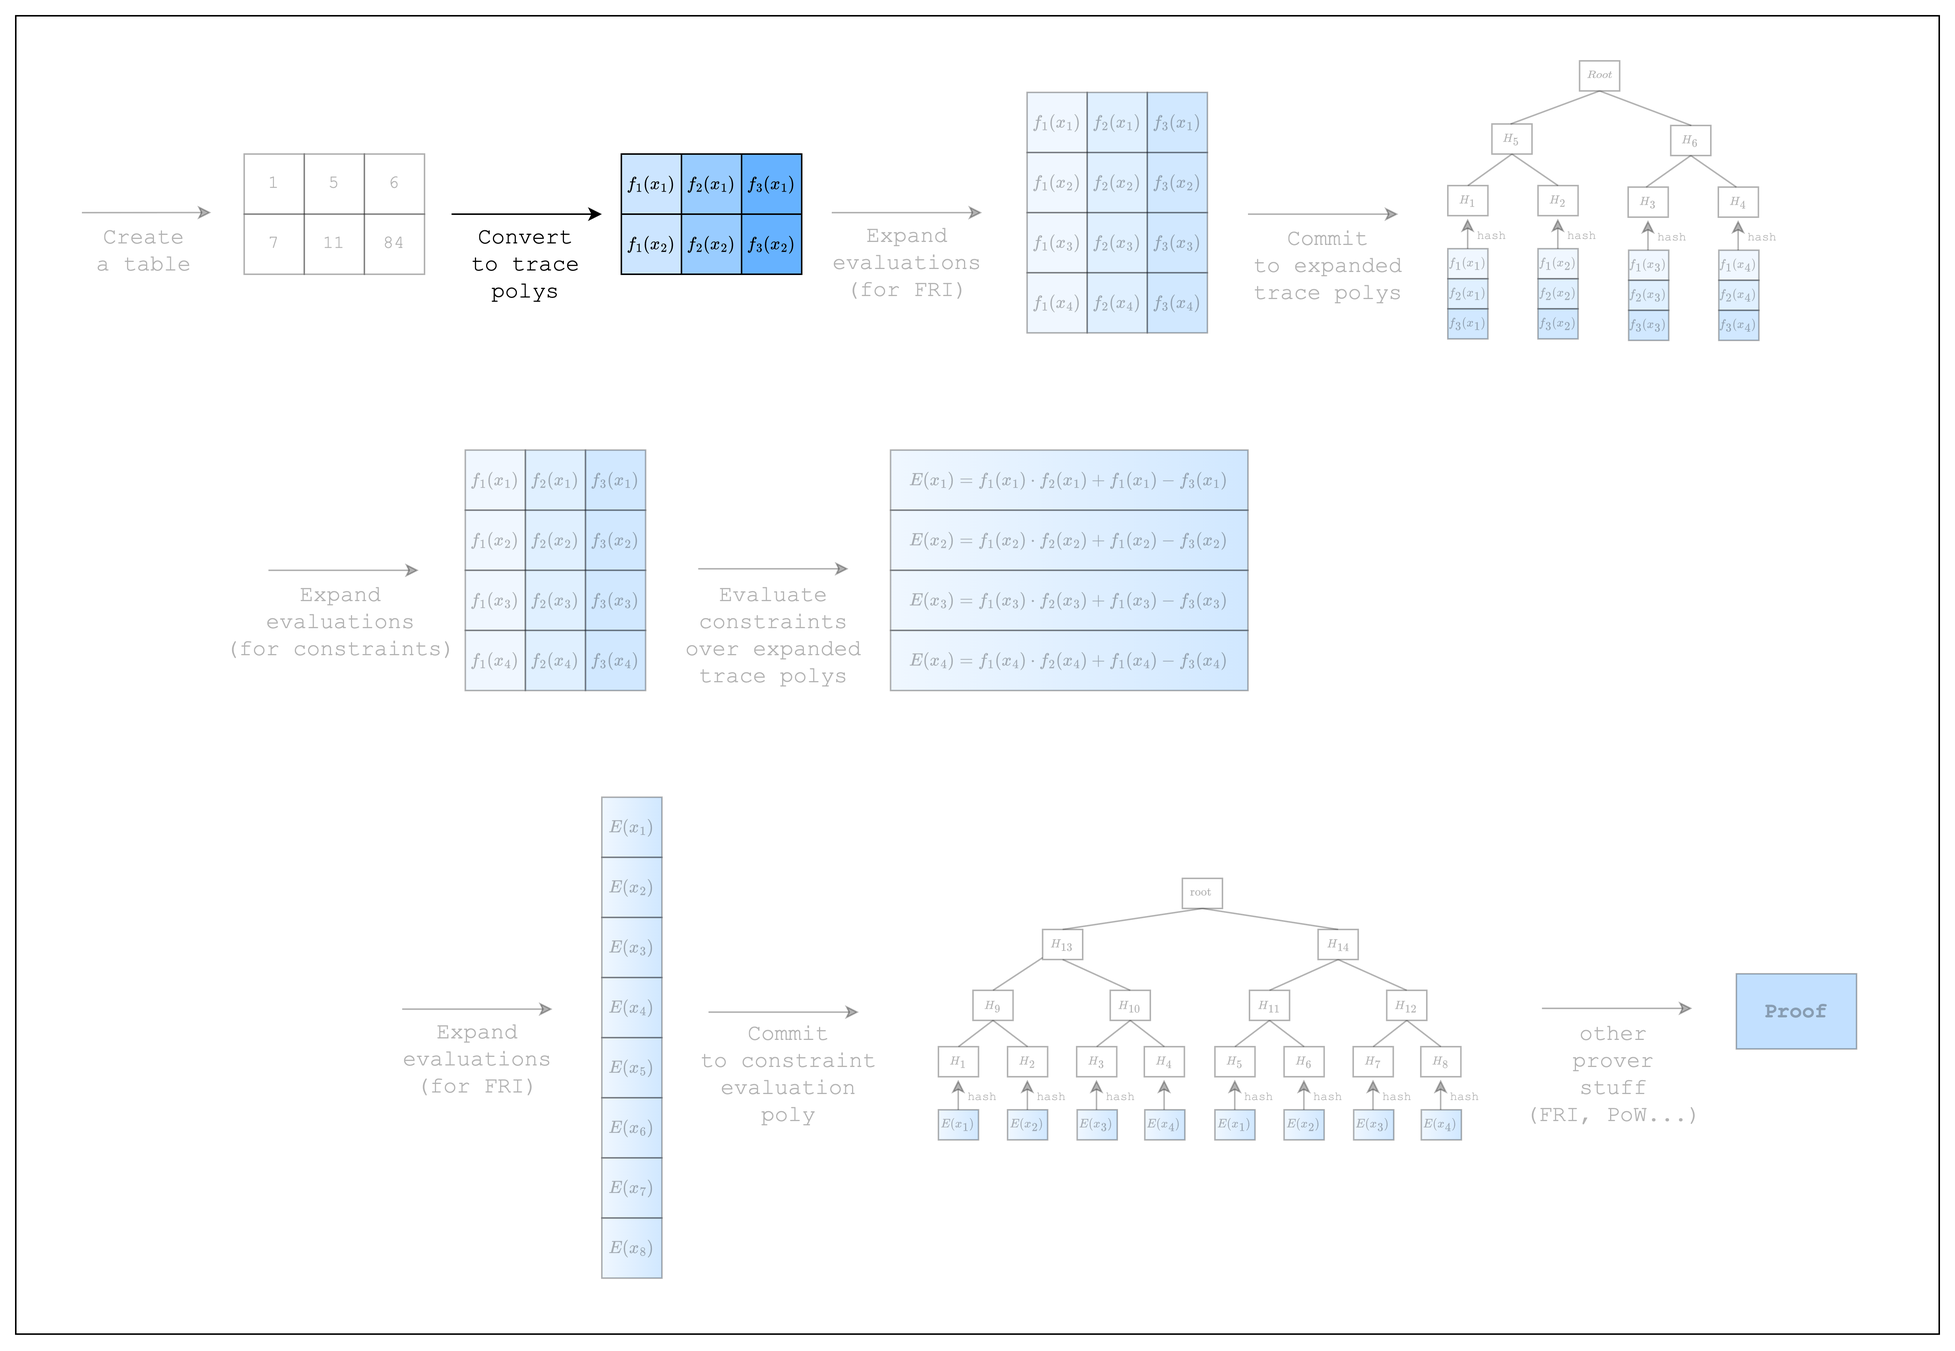
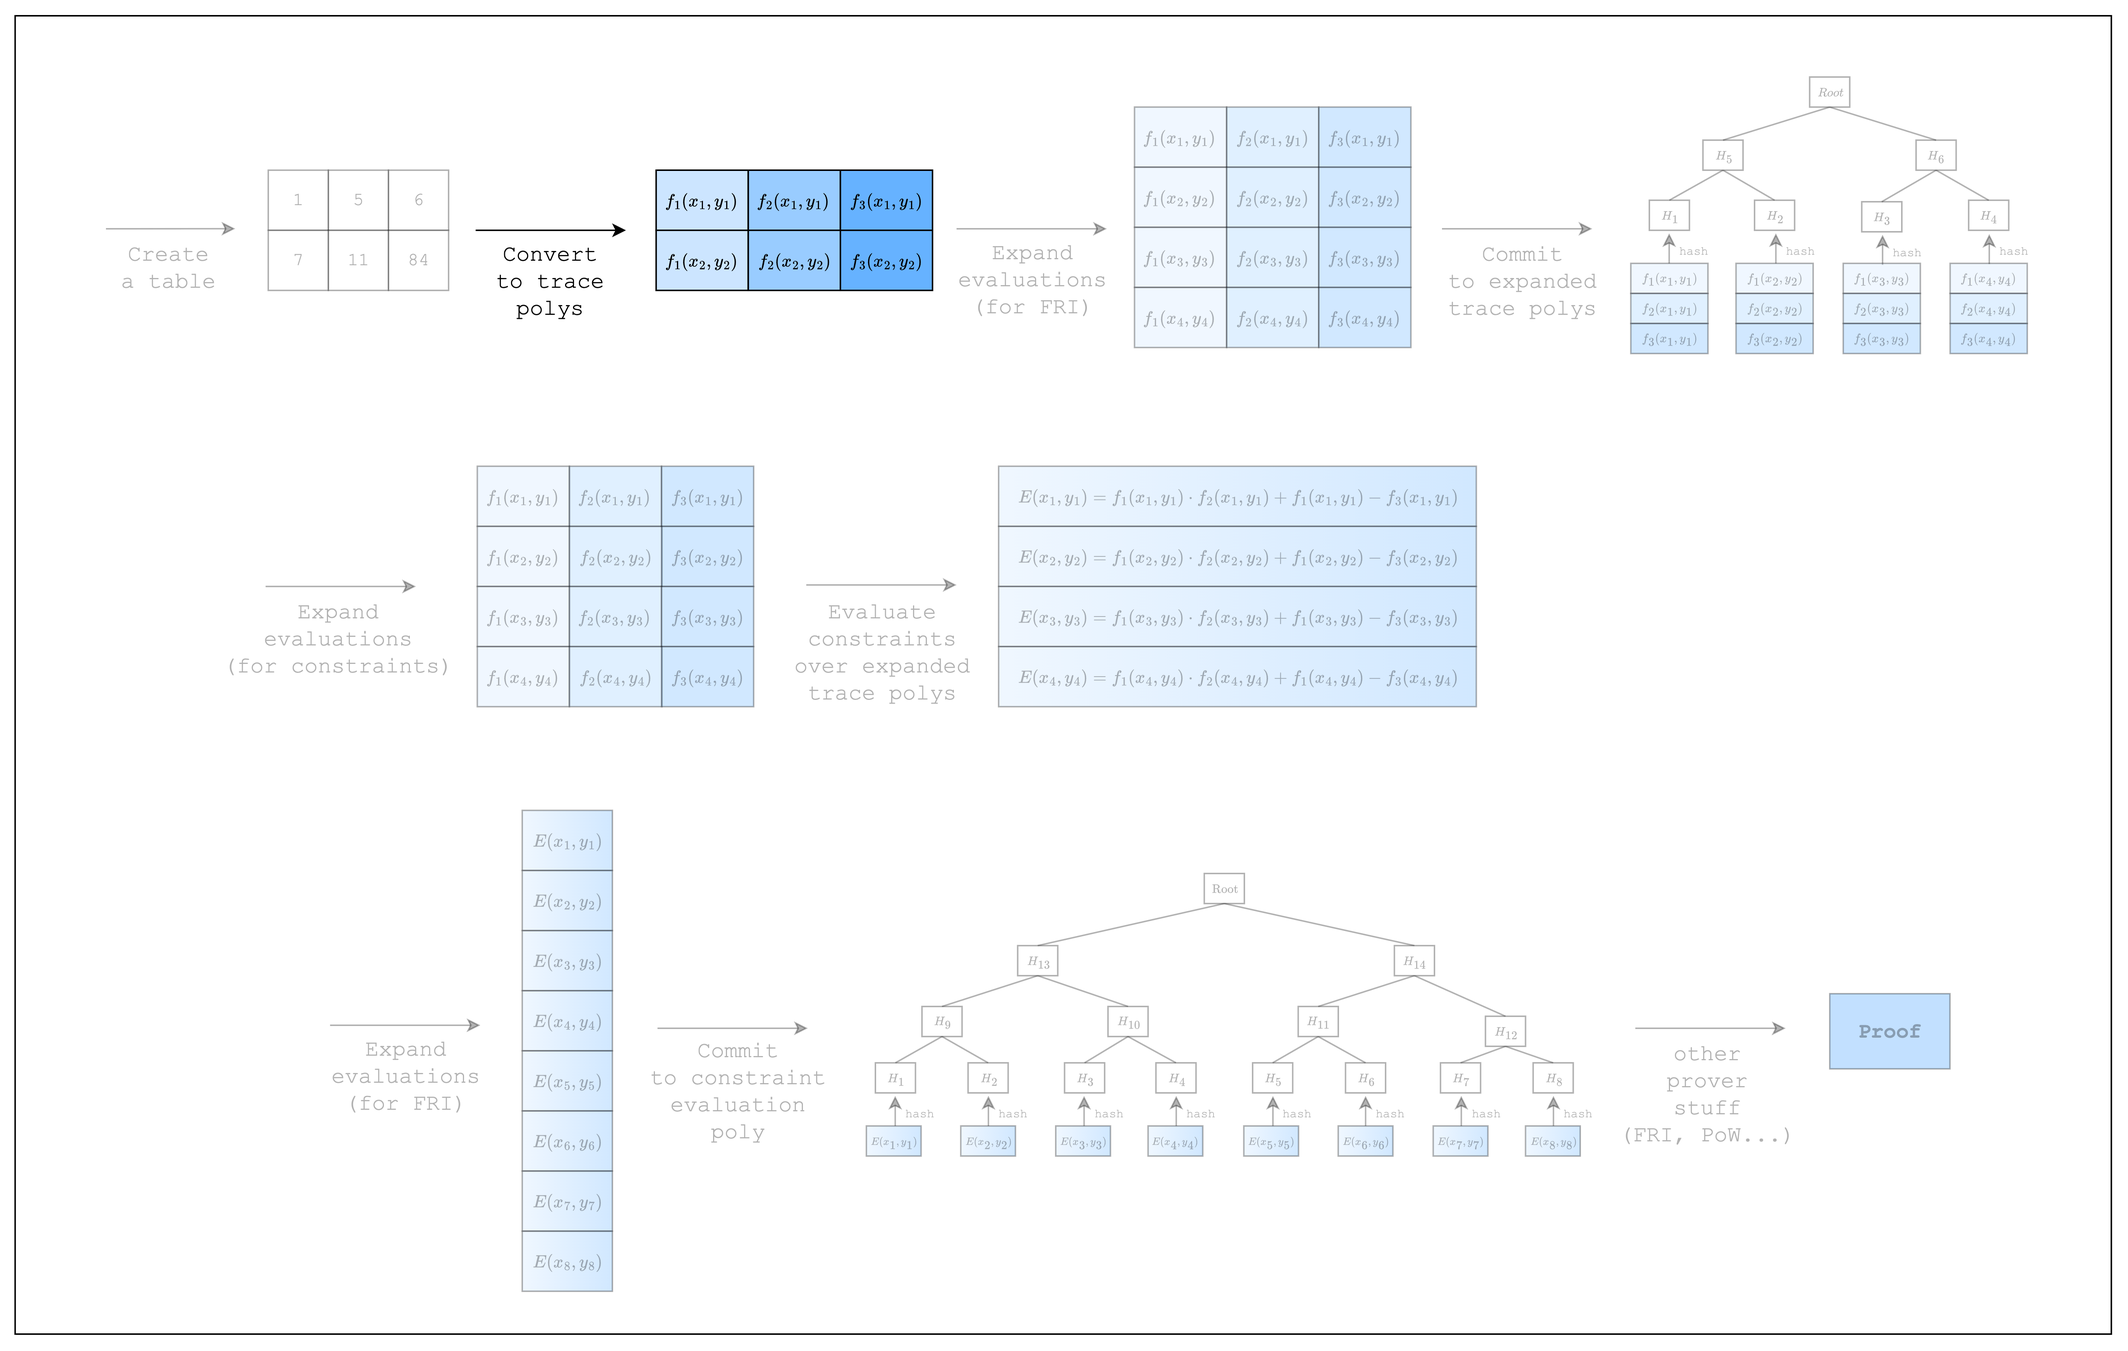
fix: reflect reviews

diff --git a/src/air-development/writing-a-simple-air/committing-to-the-trace-polynomials.md b/src/air-development/writing-a-simple-air/committing-to-the-trace-polynomials.md
@@ -7,11 +7,7 @@
 
 Now that we have created the trace polynomials, we need to commit to them.
 
-As we can see in [Figure 1](#fig-committing-to-the-trace-polynomials-1), Stwo commits to the trace polynomials by first expanding the trace polynomials (i.e. adding more evaluations) and then committing to the expanded evaluations using a merkle tree.
-
-The rate of expansion (commonly referred to as the _blowup factor_) is a parameter of FRI and readers who are interested in learning more about how to set this parameter can refer to the [Circle-STARKs paper](https://eprint.iacr.org/2024/278) (We are also working on adding an explanation in the book).
-
-For the puposes of this tutorial, we will use the default values for the blowup factor.
+As we can see in [Figure 1](#fig-committing-to-the-trace-polynomials-1), Stwo commits to the trace polynomials by first expanding the trace polynomials (i.e. adding more evaluations) and then committing to the expanded evaluations using a Merkle tree. The rate of expansion (commonly referred to as the _blowup factor_) is a parameter of the FRI protocol and for the purposes of this tutorial, we will use the default value.
 
 ```rust,ignore
 {{#include ../../../stwo-examples/examples/committing_to_the_trace_polynomials.rs:here_1}}
@@ -20,9 +16,9 @@ For the puposes of this tutorial, we will use the default values for the blowup 
 
 We begin with some setup. First, we create a default `PcsConfig` instance, which sets the values for the FRI and PoW operations. Setting non-default values is related to the security of the proof, which is out of the scope for this tutorial.
 
-Next, we precompute twiddles, also known as the _domain_ over which the rows in the table are evaluated on. The log size of this domain is set to `log_num_rows + CONSTRAINT_EVAL_BLOWUP_FACTOR + config.fri_config.log_blowup_factor`, which is the max log size of the domain that is needed throughout the proving process. Why we need to add `CONSTRAINT_EVAL_BLOWUP_FACTOR` will be explained in the next section.
+Next, we precompute twiddles, which are factors multiplied during FFT for a particular domain. Notice that the log size of the domain is set to `log_num_rows + CONSTRAINT_EVAL_BLOWUP_FACTOR + config.fri_config.log_blowup_factor`, which is the max log size of the domain that is needed throughout the proving process. For committing to the trace polynomial, we only need to add `config.fri_config.log_blowup_factor` but as we will see in the next section, we also need to commit to a polynomial of a higher degree, which is the reason we also add `CONSTRAINT_EVAL_BLOWUP_FACTOR`.
 
-The final setup is creating a commitment scheme and a channel. The commitment scheme will be used to commit to the trace polynomials as merkle trees, while the channel will be used to keep a running hash of all data in the proving process (i.e. transcript of the proof). This is part of the Fiat-Shamir transformation where randomness can be generated safely even in a non-interactive setting. Here, we use the `Blake2sChannel` and `Blake2sMerkleChannel` for the channel and commitment scheme, respectively, but we can also use the `Poseidon252Channel` and `Poseidon252MerkleChannel` pair.
+The final setup is creating a commitment scheme and a channel. The commitment scheme will be used to commit to the trace polynomials as Merkle trees, while the channel will be used to keep a running hash of all data in the proving process (i.e. transcript of the proof). This is part of the Fiat-Shamir transformation where randomness can be generated safely even in a non-interactive setting. Here, we use the `Blake2sChannel` and `Blake2sMerkleChannel` for the channel and commitment scheme, respectively, but we can also use the `Poseidon252Channel` and `Poseidon252MerkleChannel` pair.
 
 Now that we have our setup, we can commit to the trace polynomials. But before we do so, we need to first commit to an empty vector called a _preprocessed trace_, which doesn't do anything but is required by Stwo. Then, we need to commit to the size of the trace, which is a vital part of the proof system that the prover should not be able to cheat on. Once we have done these, we can finally commit to the original trace polynomials.
 

diff --git a/src/air-development/writing-a-simple-air/from-spreadsheet-to-trace-polynomials.md b/src/air-development/writing-a-simple-air/from-spreadsheet-to-trace-polynomials.md
@@ -12,7 +12,7 @@ In the previous section, we created a table (aka spreadsheet). In this section, 
     <figcaption><center><span style="font-size: 0.9em">Figure 2: From spreadsheet to trace polynomials</span></center></figcaption>
 </figure>
 
-As we can see in [Figure 2](#fig-from-spreadsheet-to-trace-polynomials-2), the cells in each column of the table can be seen as evaluations of a [Lagrange polynomial](https://en.wikipedia.org/wiki/Lagrange_polynomial). A characteristic of a Lagrange polynomial is that interpolating \\(n\\) distinct points will result in a unique polynomial of at most \\(n-1\\) degrees. So if we consider each row value \\(f(x_i)\\) as the evaluation of a distinct point \\(x_i\\), we can get a unique polynomial of degree \\(num\\\_rows-1\\) for each column, which is also known as a **trace polynomial**.
+In STARKs, the computation trace is represented as evaluations of a polynomial over some domain. Typically this domain is a coset of a multiplicative subgroup. But since the multiplicative subgroup of M31 is not smooth, Stwo works over the circle group which is the subgroup of degree-2 extension of M31 (as explained in the [Mersenne Primes](../../how-it-works/mersenne-prime.md) and [Circle Group](../../how-it-works/circle-group.md) sections). Thus the domain in Stwo is formed of points \\((x_i, y_i)\\) on the circle curve. When interpolating a polynomial over the computation trace using the points on the circle curve as domain gives a bivariate trace polynomial \\(f_j(x, y)\\).
 
 We will explain why using a polynomial representation is useful in the next section, but for now, let's see how we can create trace polynomials for our code. Note that we are building upon the code from the previous section, so there's not much new code here.
 
@@ -21,6 +21,6 @@ We will explain why using a polynomial representation is useful in the next sect
 {{#include ../../../stwo-examples/examples/from_spreadsheet_to_trace_polynomials.rs:main_end}}
 ```
 
-Here, `domain` refers to the \\(x_i\\) values used to interpolate the trace polynomials. For example, \\(x_1, x_2\\) values in [Figure 2](#fig-from-spreadsheet-to-trace-polynomials-2) are the domain values for our example (in reality, we need the size of the domain needs to be 16 as we have 16 rows). We can ignore terms like `CanonicCoset` and `.circle_domain()` for now, but should note that the `log_num_rows` in `CanonicCoset::new(log_num_rows).circle_domain()` needs to be equal to the log of the actual number of rows that are used in the table.
+Here, `domain` refers to the \\((x_i, y_i)\\) values used to interpolate the trace polynomials. For example, \\((x_1, y_1), (x_2, y_2)\\) in [Figure 2](#fig-from-spreadsheet-to-trace-polynomials-2) are the domain values for our example. Note that when creating the domain, we set the `log_num_rows` to the log of the actual number of rows that are used in the table. In our example, we set it to 4 since Stwo requires that we use at least 16 rows. For a background on what `CanonicCoset` and `.circle_domain()` mean, you can refer to the [Circle Group](../../how-it-works/circle-group.md) section.
 
 Now that we have created 2 trace polynomials for our 2 columns, let's move on to the next section where we commit to those polynomials!

diff --git a/src/air-development/writing-a-simple-air/constraints-over-trace-polynomials.md b/src/air-development/writing-a-simple-air/constraints-over-trace-polynomials.md
@@ -11,9 +11,7 @@ When we want to perform computations over the cells in a spreadsheet, we don't w
 
 We can do the same thing with our table, except in addition to autofilling cells, we can also create a constraint that the result was computed correctly. Remember that the purpose of using a proof system is that the verifier can verify a computation was executed correctly without having to execute it themselves? Well, that's exactly why we need to create a constraint.
 
-Now let's say we want to add a new column `C` to our spreadsheet that computes the product of the previous columns plus the first column. We can set `C1` as `A1 * B1 + A1` as in [Figure 2](#fig-constraints-over-trace-polynomials-2).
-
-In the same vein, we can create a new column in our table that computes the sum of the two previous columns. And we can constrain the value of the third column by creating an equation that must equal 0: `col1_row1 * col2_row1 + col1_row1 - col3_row1 = 0`.
+Now let's say we want to add a new column `C` to our spreadsheet that computes the product of the previous columns plus the first column. We can set `C1` as `A1 * B1 + A1` as in [Figure 2](#fig-constraints-over-trace-polynomials-2). And then we can constrain the value of the third column by creating an equation that must equal 0: `col1_row1 * col2_row1 + col1_row1 - col3_row1 = 0`.
 
 <figure id="fig-constraints-over-trace-polynomials-2">
     <img src="./constraints-over-trace-polynomials-2.png" width="100%" />
@@ -40,7 +38,8 @@ We will now give a name to the polynomial that expresses the constraint: a **com
 
 Basically, in order to prove that the constraints are satisfied, we need to show that the composition polynomial evaluates to 0 over the original domain (i.e. the domain of size the number of rows in the table).
 
-But first, as can be seen in [Figure 1](#fig-constraints-over-trace-polynomials-1), we need to expand the evaluations of the trace polynomials by a factor of 2. This is because the composition polynomial has degree 2, while the trace polynomials have degree 1, and thus we need more evaluations to uniquely determine the Lagrange polynomial.
+But first, as can be seen in [Figure 1](#fig-constraints-over-trace-polynomials-1), we need to expand the evaluations of the trace polynomials by a factor of 2. This is because the composition polynomial involves a multiplication of two trace polynomials, and thus the degree of the constraint is 2 in \\(x\\), and thus we need double the number of evaluations to uniquely determine the Lagrange polynomial for the composition polynomial.
+[TODO: check again if this makes sense]
 
 Once we have the expanded evaluations, we can evaluate the composition polynomial. Checking that the composition polynomial evaluates to 0 over the original domain is done in FRI, so once again we need to expand the composition polynomial evaluations by a factor of 2 and commit to them.
 

diff --git a/src/air-development/writing-a-simple-air/writing-a-spreadsheet.md b/src/air-development/writing-a-simple-air/writing-a-spreadsheet.md
@@ -5,7 +5,7 @@
     <figcaption><center><span style="font-size: 0.9em">Figure 1: Prover workflow: Create a table</span></center></figcaption>
 </figure>
 
-In order to write a proof, we first need to create a table of rows and columns. This is no different than writing integers to an Excel spreadsheet as we can see in [Figure 1](#fig-writing-a-spreadsheet-2).
+In order to write a proof, we first need to create a table of rows and columns. This is no different than writing integers to an Excel spreadsheet as we can see in [Figure 2](#fig-writing-a-spreadsheet-2).
 
 <figure id="fig-writing-a-spreadsheet-2">
     <img src="./writing-a-spreadsheet-2.png" width="100%" />
@@ -14,9 +14,9 @@ In order to write a proof, we first need to create a table of rows and columns. 
 
 But there is a slight caveat to consider when creating the table. Stwo implements [SIMD operations](https://en.wikipedia.org/wiki/Single_instruction,_multiple_data) to speed up the prover in the CPU, but this requires providing the table cells in chunks of 16 rows. Simply put, this is because Stwo supports 16 lanes of 32-bit integers, which means that the same instruction can be run simultaneously for 16 different data.
 
-Alas, for our table, we will need to create 14 dummy rows to make the total number of rows equal to 16, as shown in [Figure 3](#fig-writing-a-spreadsheet-3). For the sake of simplicity, however, we will omit the dummy rows in the diagrams of the following sections.
+Alas, for our table, we will need to create 14 dummy rows to make the total number of rows equal to 16, as shown in [Figure 2](#fig-writing-a-spreadsheet-3). For the sake of simplicity, however, we will omit the dummy rows in the diagrams of the following sections.
 
-<figure>
+<figure id="fig-writing-a-spreadsheet-3">
     <img src="./writing-a-spreadsheet-3.png" width="80%" style="display: block; margin: 0 auto;" />
     <figcaption><center><span style="font-size: 0.9em">Figure 3: Creating a table with 16 rows</span></center></figcaption>
 </figure>
@@ -29,6 +29,6 @@ Given all that, let's create this table using Stwo.
 
 As mentioned above, we instantiate the `num_rows` of our table as `N_LANES=16` to accommodate SIMD operations. Then we create a `BaseColumn` of `N_LANES=16` rows for each column and populate the first two rows with our values and the rest with dummy values.
 
-Note that the values in the `BaseColumn` need to be of type `M31`, which refers to the Mersenne-31 prime field that Stwo uses. This means that the integers in the table must be in the range \\([0, 2^{31}-1]\\).
+Note that the values in the `BaseColumn` need to be of type `M31`, which refers to the Mersenne-31 prime field that Stwo uses. This means that the integers in the table must be in the range \\([0, 2^{31}-1)\\).
 
 Now that we have our table, let's move on!

diff --git a/src/air-development/writing-a-simple-air/proving-an-air.md b/src/air-development/writing-a-simple-air/proving-an-air.md
@@ -20,7 +20,7 @@ As you can see, there is only a single line of code added to create the proof. T
 
 ## Verify
 
-In order to verify our proof, we need to check that the constraints are satisfied using the commitments from the proof. In order to do that, we need to set up a `Blake2sChannel` and `CommitmentSchemeVerifier<Blake2sMerkleChannel>`, along with the same `PcsConfig` that we used when creating the proof. Then, we need to recreate the running hash channel by passing the merkle tree commitments and the `log_num_rows` to the `CommitmentSchemeVerifier` instance by calling `commit` (remember, the order is important!). Then, we can verify the proof using the `verify` function.
+In order to verify our proof, we need to check that the constraints are satisfied using the commitments from the proof. In order to do that, we need to set up a `Blake2sChannel` and `CommitmentSchemeVerifier<Blake2sMerkleChannel>`, along with the same `PcsConfig` that we used when creating the proof. Then, we need to recreate the running hash channel by passing the Merkle tree commitments and the `log_num_rows` to the `CommitmentSchemeVerifier` instance by calling `commit` (remember, the order is important!). Then, we can verify the proof using the `verify` function.
 
 ```admonish exercise
 Try setting the dummy values in the table to 1 instead of 0. Does it fail? If so, can you see why?

diff --git a/src/introduction.md b/src/introduction.md
@@ -1,10 +1,9 @@
 # Introduction
 
-Stwo is a state-of-the-art framework for creating ZK proofs that boasts many compelling features to the ZK ecosystem, some of which include:
+Stwo is a state-of-the-art framework for creating STARK proofs that provides the following features:
 
-- Provides both the frontend and backend of creating ZK proofs
-- Frontend is designed to be flexible to allow you to express your own proof system
-- Backend leverages Circle STARKs over the Mersenne31 prime field for fast prover performance
+- A frontend designed to be flexible to allow you to express your own constraints
+- A backend that leverages Circle STARKs over the Mersenne31 prime field for fast prover performance
 - Seamlessly integrated with Cairo
 
-This book will guide you through why you should create a proof system using Stwo, guide you through the process of creating your own proof system, and also provide in-depth explanations of the inner workings of Stwo.
+This book will guide you through the process of creating your own constraints and then proving them using Stwo and also provide in-depth explanations of the inner workings of Stwo.

diff --git a/src/SUMMARY.md b/src/SUMMARY.md
@@ -8,12 +8,12 @@
 
   - [Writing a Simple AIR](air-development/writing-a-simple-air/index.md)
 
-    - [Hello (ZK) World](air-development/writing-a-simple-air/hello-zk-world.md)
+    - [Hello World](air-development/writing-a-simple-air/hello-world.md)
     - [Writing a Spreadsheet](air-development/writing-a-simple-air/writing-a-spreadsheet.md)
     - [From Spreadsheet to Trace Polynomials](air-development/writing-a-simple-air/from-spreadsheet-to-trace-polynomials.md)
     - [Committing to the Trace Polynomials](air-development/writing-a-simple-air/committing-to-the-trace-polynomials.md)
     - [Evaluating Constraints Over Trace Polynomials](air-development/writing-a-simple-air/constraints-over-trace-polynomials.md)
-    - [Proving an AIR over the Trace](air-development/writing-a-simple-air/proving-an-air.md)
+    - [Proving and Verifying an AIR](air-development/writing-a-simple-air/proving-an-air.md)
 
   - [Preprocessed Trace](air-development/preprocessed-trace/index.md)
   - [Static Lookups](air-development/static-lookups/index.md)

diff --git a/src/air-development/writing-a-simple-air/hello-world.md b/src/air-development/writing-a-simple-air/hello-world.md
@@ -1,4 +1,4 @@
-# Hello (ZK) World
+# Hello World
 
 Let's first set up a Rust project with Stwo.
 
